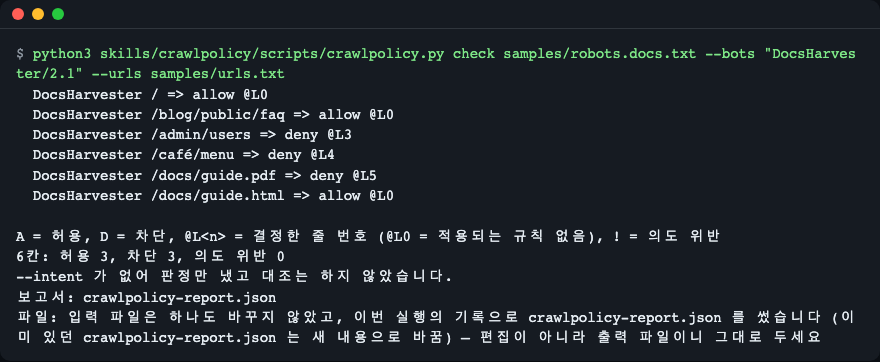
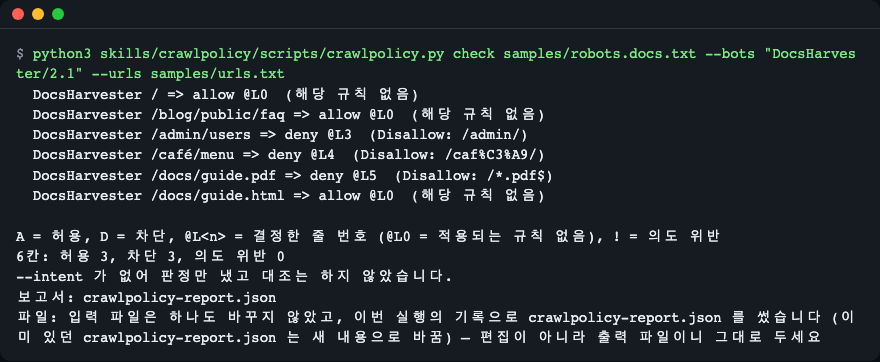
docs(readme): refresh eval table and screenshots for 0.1.4
Table values come from the latest measurement, including Codex CLI verification.

Changed region(s): [[0.3989, 0.3646, 0.6443, 0.5773], [0.4602, 0.3039, 0.6136, 0.3343], [0.3375, 0.2431, 0.4909, 0.2735]]

diff --git a/README.md b/README.md
@@ -47,7 +47,7 @@ Sources: [RFC 9309](https://www.rfc-editor.org/rfc/rfc9309), [google/robotstxt](
 /plugin install crawlpolicy@crawlpolicy-skill
 ```
 
-**Other agents (Agent Skills standard)** — copy `skills/crawlpolicy` into the agent's skills folder, for Claude Code without the plugin: `.claude/skills/`.
+**Other agents (Agent Skills standard)** — copy `skills/crawlpolicy` into the agent's skills folder, for Claude Code without the plugin: `.claude/skills/`, for Codex CLI: `.agents/skills/`.
 
 Needs Python 3.10+ (`python3 --version`); nothing else. On a minimal Linux image: `apt-get install -y python3`.
 
@@ -91,7 +91,7 @@ python3 skills/crawlpolicy/scripts/crawlpolicy.py check samples/robots.docs.txt 
 ```
 
 ![Collector verdicts with winning rule lines](docs/images/collector.png)
-*`DocsHarvester/2.1` is normalized to the token `DocsHarvester`; `/café/menu` is denied by the rule `%C3%A9` on line 4.*
+*A small run prints one line per URL with the winning rule. `DocsHarvester/2.1` is normalized to the token `DocsHarvester`; `/café/menu` is denied by the rule `/caf%C3%A9/` on line 4.*
 
 Compare two versions of the file (useful in CI: exit code 1 means something changed):
 
@@ -133,8 +133,9 @@ Checked 2026-11-14. Bingbot is not in the table because its page could not be ve
 
 ## Output
 
-- Terminal: the matrix, violations, patch, `re-verified: ...`, provider notes. A single bot prints one `<bot> <url> => allow|deny @L<n>` line per URL.
+- Terminal: the matrix, violations, patch, `re-verified: ...`, provider notes. Small runs (one bot, at most 12 cells, or URLs given with `--url`/`--urls` and at most 60 cells) print one `<bot> <url> => allow|deny @L<n>  (<rule>)` line per cell instead of the matrix, with the winning rule text or `(no matching rule)`. Larger runs, like the 75-cell demo, keep the matrix.
 - `crawlpolicy-report.json` in the working folder: `source.sha256`, cells with `verdict` and `rule_line`, violations, `fix.verified`, `fix.violations_after`, `fix.regressions`. Keys are the same in both languages. Each run overwrites the file. If you run `check` or `diff` on the unchanged `robots.fixed.txt`, the original report is kept and the result goes to `crawlpolicy-report.fixed.json` with a note; the fix run itself already prints the re-verification, so that second run is not needed.
+- `--out /dev/null`: keep no report; the verdicts and the patch are still printed and the `files:` line says no report was kept. If the working folder cannot be written (read-only, no permission), nothing is written, every verdict, patch and `re-verified:` line is still printed, and a one-line warning goes to stderr; the exit code follows the verdicts. An explicit `--out` that cannot be written is an input error (exit 2).
 - `robots.fixed.txt`: the fixed copy.
 - Every run ends with a `files:` line: no input file was changed, and the output files this run wrote (the report, plus `robots.fixed.txt` when a fix is proposed) are listed. If a report or `robots.fixed.txt` left by an earlier run was replaced, the line says so (`... already existed and was replaced`). They are output, not edits, so leave them in place. `--out` or `--fixed-out` pointing at an input file (robots.txt, `--urls`, `--bots-file`) or at each other is refused with the option name (exit 2), for example `error: --fixed-out urls.txt would overwrite the --urls file — choose another path`. An `--out` you pass yourself never replaces an existing file that is not a crawlpolicy report; a `--fixed-out` path you choose is replaced if it exists, and the `files:` line tells you. A malformed URL is a one-line error with exit 2.
 - Exit codes: `0` intent holds or nothing changed; `1` violations found or verdicts changed; `2` input problem (missing file, HTML page, binary file, bad `--intent`); `3` no single robots.txt found (auto-detect looks in `./`, `public/`, `static/`, `app/`). A bare `robots.txt` argument counts as left out when another candidate exists in `public/`, `static/` or `app/`: you get exit 3 and `error: found 2 robots.txt files: ... — pass one path, e.g. ./robots.txt`; `./robots.txt` or any other path is used as given.
@@ -161,9 +162,9 @@ CRAWLPOLICY_LANG=ko python3 skills/crawlpolicy/scripts/crawlpolicy.py diff sampl
 | Stays quiet when it should not | 11/11 |
 | Tasks solved with the skill | 7/7 |
 | Tasks solved without it (baseline) | 0/7 |
-| Mean score gain (Δ) | +0.61 |
+| Mean score gain (Δ) | +0.58 |
 | Tasks that catch a broken script | 7/7 |
-| Codex CLI | not verified |
+| Codex CLI | 7/7 tasks · verified |
 
 Measured 2026-11-15 with Claude Code 2.1.322 · sonnet · 3 runs per case · codex-cli 0.154.0
 <!-- skill-eval:end -->
@@ -199,7 +200,7 @@ Good fits: checking a robots.txt before deploy when you want AI training crawler
 uv sync && uv run pytest -q
 ```
 
-160 tests pass (`uv run pytest -q`, Python 3.10, 3.12 and 3.14 in the CI matrix). The `evals/` folder holds 12 trigger cases (3 in Korean), 11 no-trigger cases and 7 task cases with fixtures, used by `claude plugin eval`.
+240 tests pass (`uv run pytest -q`, Python 3.10, 3.12 and 3.14 in the CI matrix). The `evals/` folder holds 12 trigger cases (3 in Korean), 11 no-trigger cases and 7 task cases with fixtures, used by `claude plugin eval`.
 
 ## License
 

diff --git a/CHANGELOG.md b/CHANGELOG.md
@@ -4,6 +4,24 @@ All notable changes to this project are documented here. The format follows
 [Keep a Changelog](https://keepachangelog.com/en/1.1.0/) and the project uses
 [Semantic Versioning](https://semver.org/).
 
+## [0.1.4] - 2026-11-15
+
+### Changed
+
+- Small runs print the evidence on stdout: with one bot, at most 12 cells, or URLs given with `--url`/`--urls` and at
+  most 60 cells, `check` prints one line per cell with the winning rule text, `<bot> <url> => allow|deny @L<n>
+  (<rule>)` or `(no matching rule)`, instead of the matrix. Larger runs (the 75-cell demo) keep the matrix.
+- `--out /dev/null` is accepted: no report is kept, the verdicts and the patch are printed as usual and the `files:`
+  line says no report was kept.
+- When the report cannot be written to the current folder (read-only folder, no permission), nothing is written, every
+  verdict, patch and `re-verified:` line is still printed, a one-line warning goes to stderr and the exit code follows
+  the verdicts. An explicit `--out` that cannot be written is still an input error (exit 2).
+- SKILL.md is shorter: run the script first even when the file looks simple, ask with `--bots`/`--url` for bot and URL
+  questions, and start the answer with the printed lines.
+- Eval set: the four task cases that ask not to edit any file grade the script's printed lines instead of the report
+  file, and two fixtures now cover an Allow/Disallow tie, a `$` anchor and two groups for the same bot.
+- README: the measurement table uses the 0.1.4 run (mean score gain +0.58, Codex CLI verified on 7/7 tasks).
+
 ## [0.1.3] - 2026-11-15
 
 ### Fixed

diff --git a/evals/task-longest-match/prompt.md b/evals/task-longest-match/prompt.md
@@ -3,4 +3,4 @@ name: task-longest-match
 max_turns: 6
 ---
 
-Under the robots.txt in this folder, may GPTBot fetch /shop/public/a.html? Tell me which rule line decides it. Do not edit any file.
+Under the robots.txt in this folder, may GPTBot fetch /shop/public/a.html, /shop/public/data.json, /shop/public/data.json?v=2 and /shop/sale/x? Tell me which rule line decides each one. Do not edit any file.

diff --git a/evals/task-token-exact/prompt.md b/evals/task-token-exact/prompt.md
@@ -3,4 +3,4 @@ name: task-token-exact
 max_turns: 6
 ---
 
-Under the robots.txt in this folder, may Applebot and Applebot-Extended fetch the home page (/)? Answer for each. Do not edit any file.
+Under the robots.txt in this folder, may Applebot and Applebot-Extended fetch the home page (/) and /private/press/kit.html? Answer for each bot and URL. Do not edit any file.

diff --git a/evals/task-token-exact/graders/answer-extended-denied.md b/evals/task-token-exact/graders/answer-extended-denied.md
@@ -1,5 +1,5 @@
 ---
 type: regex
-pattern: 'applebot-extended\W[\s\S]{0,200}(den|block|disallow|not allowed|not be allowed|not permitted|may not|cannot|prohibit)'
+pattern: 'applebot-extended(?![\w-])[^\n]*(?:\n[^\n]*)?(den|block|disallowed|not allowed|not be allowed|not permitted|may not|cannot|prohibit)'
 flags: i
 ---

diff --git a/evals/task-diff/graders/gained.md b/evals/task-diff/graders/gained.md
@@ -1,5 +1,5 @@
 ---
 type: regex
-pattern: '"verdict": "Google-Extended \S*/admin/users => allow @L0"'
-target: {source: file, path: crawlpolicy-report.json}
+pattern: 'Applebot-Extended \S*/checkout/: deny @L11 -> allow @L0  \((gained access|접근 허용으로 바뀜)\)'
+target: trace
 ---

diff --git a/evals/task-diff/graders/lost.md b/evals/task-diff/graders/lost.md
@@ -1,5 +1,5 @@
 ---
 type: regex
-pattern: '"after": \{[^}]*"verdict": "CCBot \S*/ => deny @L7"'
-target: {source: file, path: crawlpolicy-report.json}
+pattern: 'PerplexityBot (https?://[^/\s]+)?/: allow @L0 -> deny @L8  \((lost access|접근 차단으로 바뀜)\)'
+target: trace
 ---

diff --git a/evals/task-collector/graders/answer-crepes-denied.md b/evals/task-collector/graders/answer-crepes-denied.md
@@ -1,0 +1,5 @@
+---
+type: regex
+pattern: 'cr\S{1,12}pes/list[\s\S]{0,200}(den|block|disallow|not allowed|not permitted|may not|cannot|not fetch)|(den|block|disallow|not allowed|not permitted|may not|cannot)[\s\S]{0,200}cr\S{1,12}pes/list'
+flags: i
+---

diff --git a/evals/task-diff/graders/answer-gained.md b/evals/task-diff/graders/answer-gained.md
@@ -1,5 +1,5 @@
 ---
 type: regex
-pattern: 'google-extended[\s\S]{0,400}/admin/users|/admin/users[\s\S]{0,400}google-extended'
+pattern: 'applebot-extended(?:[^\n]*\n){0,3}[^\n]*/checkout|/checkout(?:[^\n]*\n){0,3}[^\n]*applebot-extended'
 flags: i
 ---

diff --git a/evals/task-collector/graders/percent-verdict.md b/evals/task-collector/graders/percent-verdict.md
@@ -1,5 +1,5 @@
 ---
 type: regex
-pattern: '"verdict": "DocsHarvester \S*/caf\S+/menu => deny @L4"'
-target: {source: file, path: crawlpolicy-report.json}
+pattern: 'DocsHarvester \S*/cr\S+pes/list => deny @L4'
+target: trace
 ---

diff --git a/evals/task-token-exact/graders/extended-denied.md b/evals/task-token-exact/graders/extended-denied.md
@@ -1,5 +1,5 @@
 ---
 type: regex
-pattern: '"verdict": "Applebot-Extended \S*/ => deny @L5"'
-target: {source: file, path: crawlpolicy-report.json}
+pattern: 'Applebot-Extended (https?://[^/\s]+)?/ => deny @L5'
+target: trace
 ---
